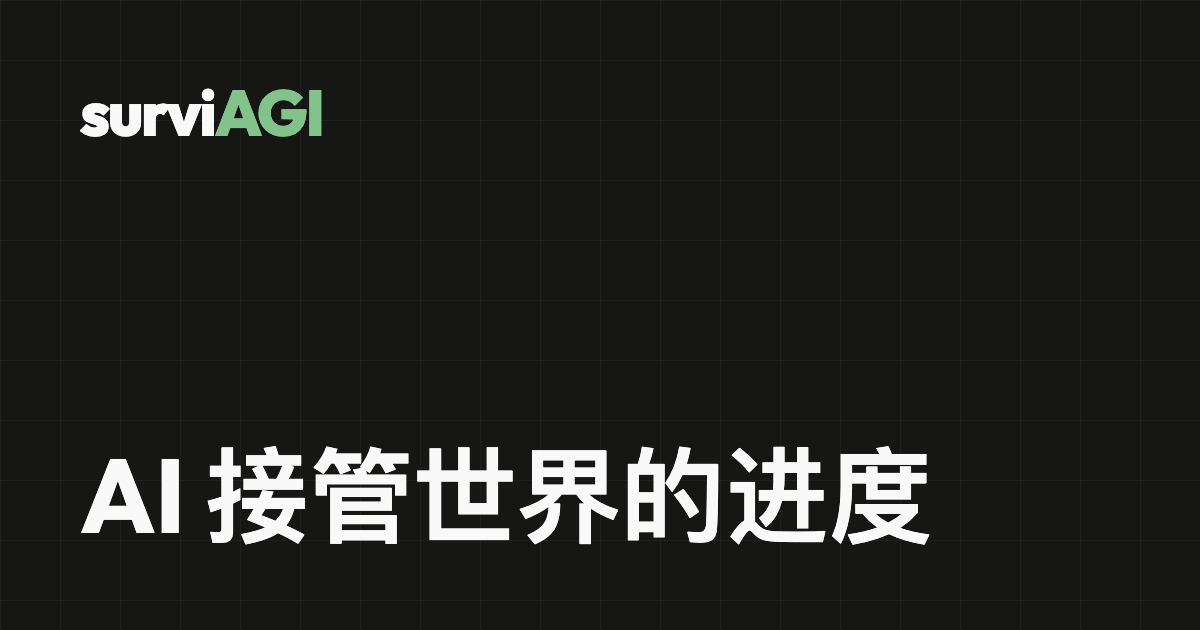
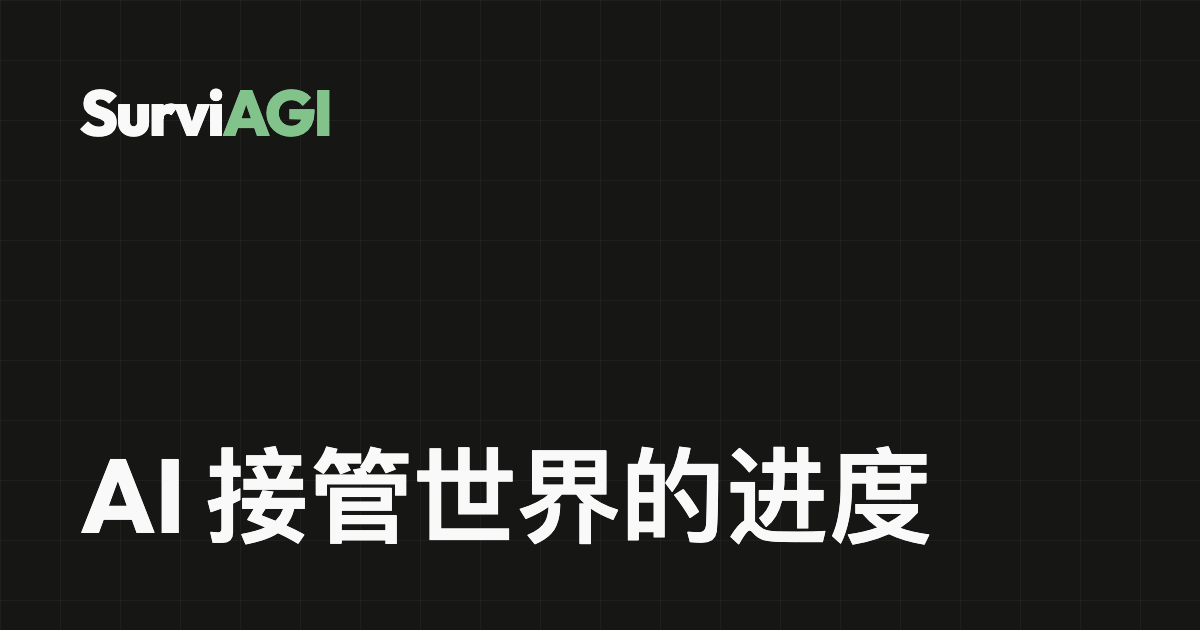
Write the wordmark SurviAGI, with the capital

Changed region(s): [[0.0617, 0.1206, 0.2775, 0.2413]]

diff --git a/src/app/[lang]/layout.tsx b/src/app/[lang]/layout.tsx
@@ -86,7 +86,7 @@ export default async function RootLayout({ children }: Readonly<{ children: Reac
     <html lang={language} className={`${interTight.variable} ${outfit.variable} ${jetBrainsMono.variable}`}>
       <body>
         <header className="header wrap">
-          <Link href={href(language, "/")} className="brand" aria-label={c.brandLabel}>survi<span className="brand-will">AGI</span></Link>
+          <Link href={href(language, "/")} className="brand" aria-label={c.brandLabel}>Survi<span className="brand-will">AGI</span></Link>
           <div className="header-end">
             <nav aria-label={nav.navLabel}>{SITE_NAV.map((item) => <Link key={item.href} href={href(language, item.href)}>{nav[item.key]}</Link>)}</nav>
             <nav className="header-social" aria-label={c.socialLinks}>

diff --git a/design/system-v1/og/card.html b/design/system-v1/og/card.html
@@ -18,7 +18,7 @@ html[lang="zh-CN"] h1{font-size:104px;letter-spacing:0;line-height:1.2}
 </style>
 </head>
 <body>
-<div class="brand">survi<span class="brand-will">AGI</span></div>
+<div class="brand">Survi<span class="brand-will">AGI</span></div>
 <h1 id="headline"></h1>
 <script>
   // The headlines are the titles in src/lib/seo.ts (siteCopy).
